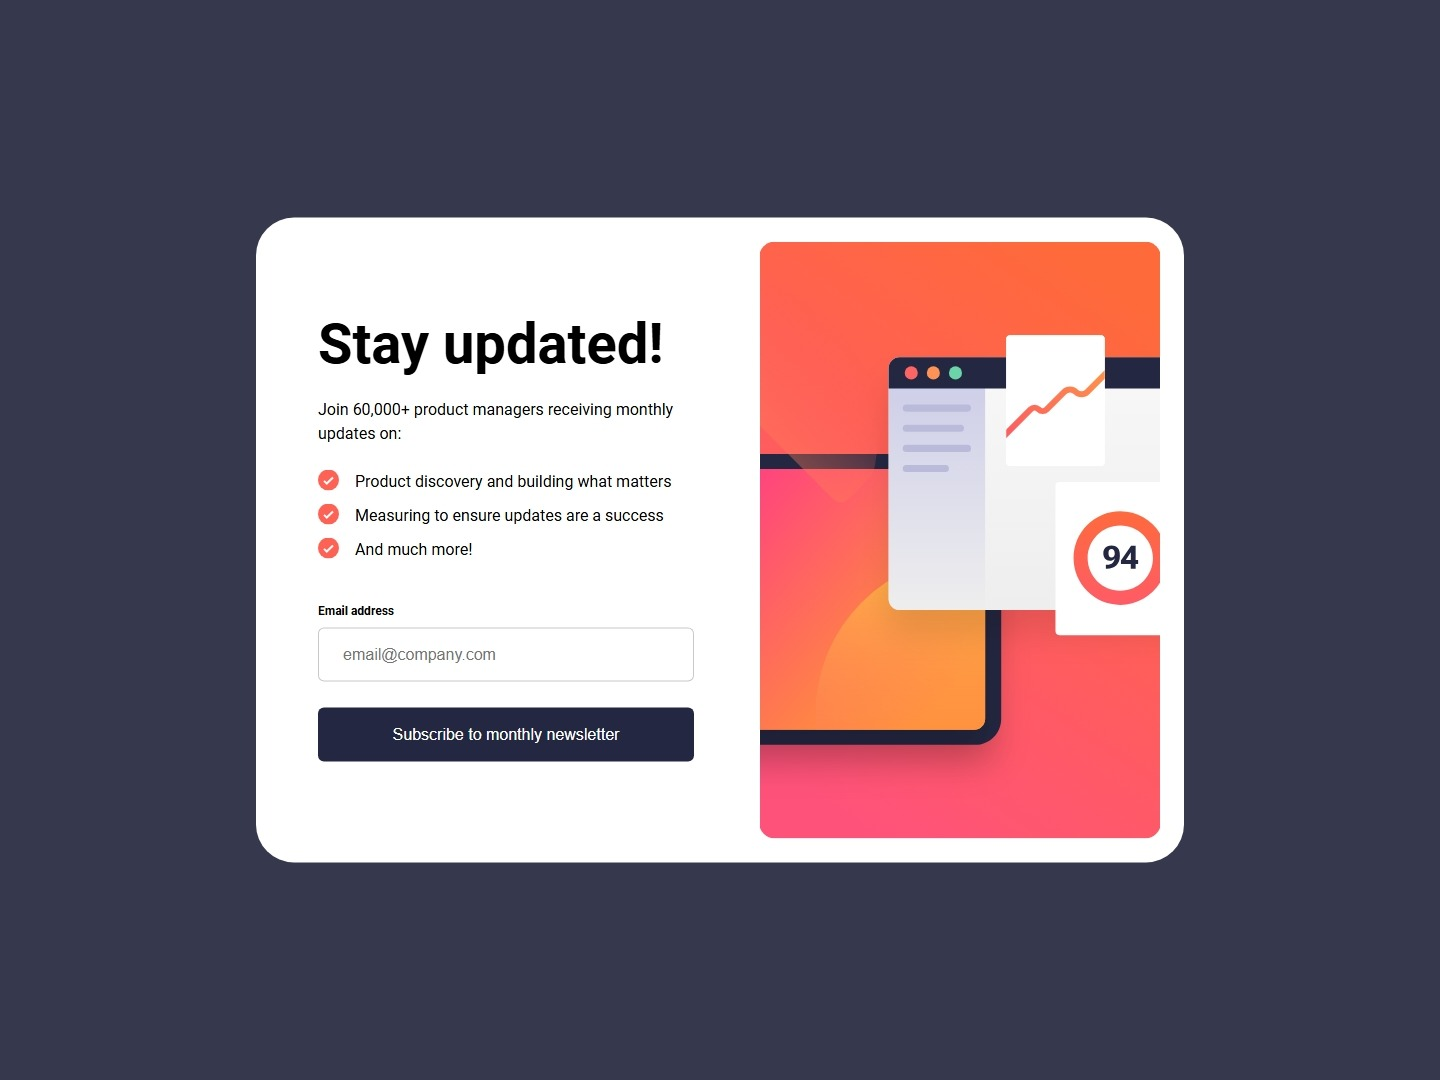
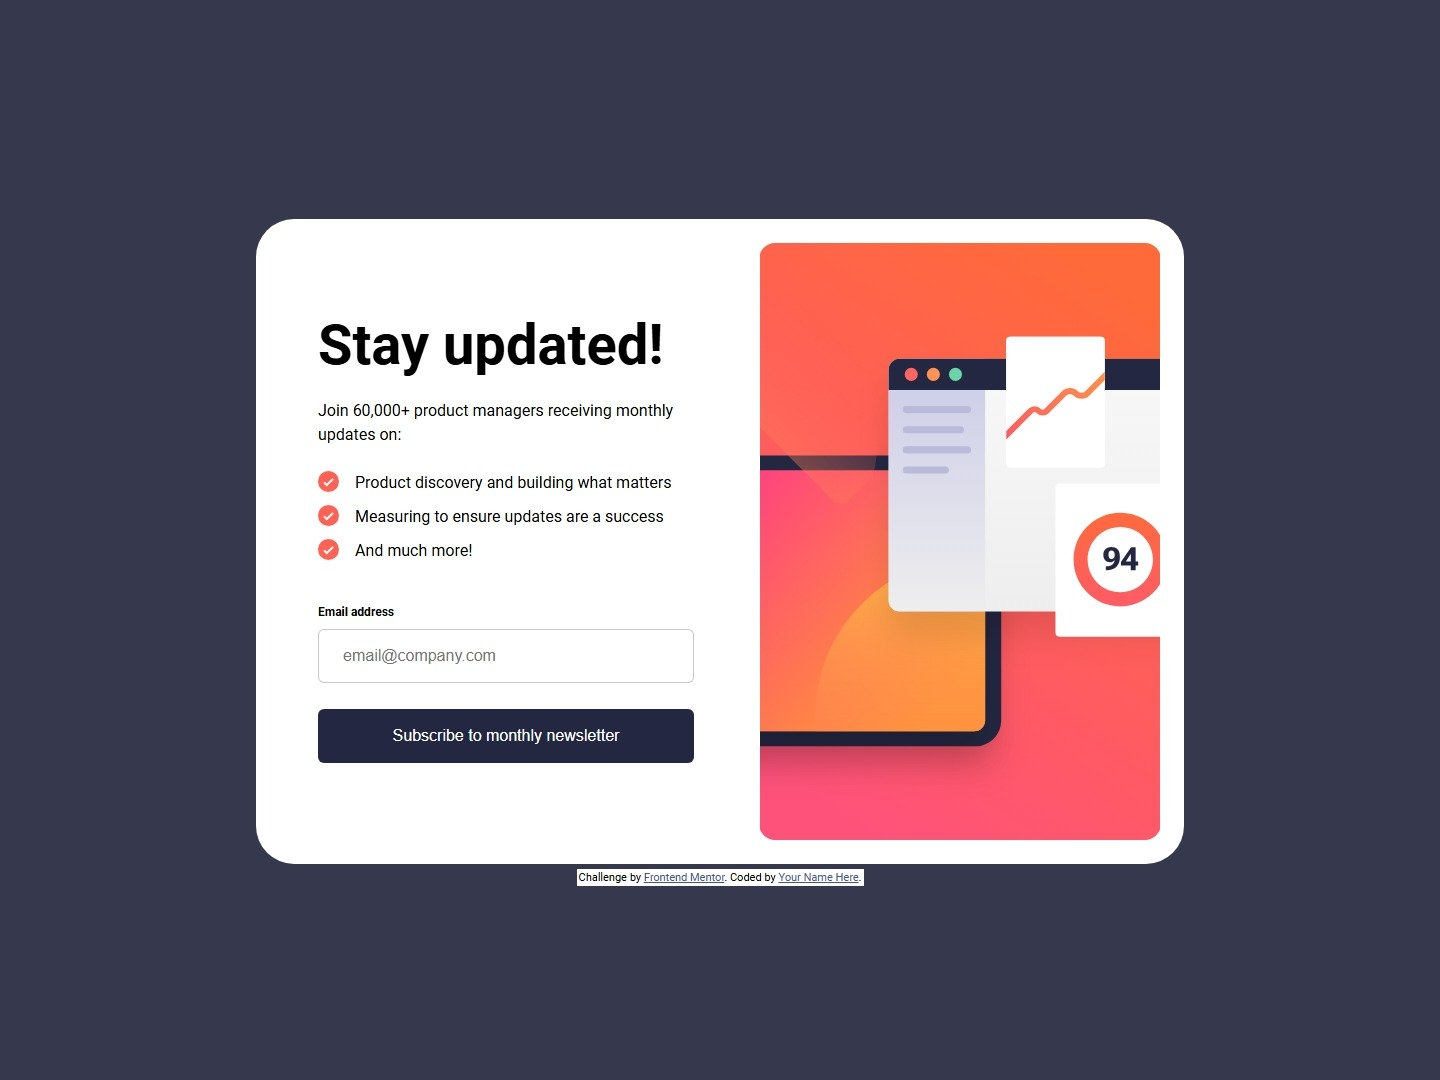
Newsletter sign-up form with success message solution: Fix table layout and desktop layout

diff --git a/Newsletter sign-up form with success message/style.css b/Newsletter sign-up form with success message/style.css
@@ -1,1 +1,1 @@
-@font-face{font-family:"Roboto";src:url("./assets/fonts/Roboto-Regular.ttf") format("truetype");font-weight:normal;font-style:normal}@font-face{font-family:"Roboto";src:url("./assets/fonts/Roboto-Bold.ttf") format("truetype");font-weight:bold;font-style:normal}*,*::before,*::after{padding:0;margin:0;box-sizing:border-box}html,body{height:100%}body{font-family:"Roboto";font-size:16px}#subscribe-form.display-none{display:none}#subscribe-form>picture{display:block}#subscribe-form>picture>img{width:100%}#subscribe-form>main{margin-inline:24px;margin-block:36px 48px}#subscribe-form>main>h1{font-size:40px;margin-bottom:21px}#subscribe-form>main>p{line-height:24px;margin-bottom:24px}#subscribe-form>main>ul{list-style:none;margin-bottom:42px}#subscribe-form>main>ul>li{position:relative;line-height:24px;padding-left:37px;margin-bottom:10px}#subscribe-form>main>ul>li::before{content:"";position:absolute;left:0;top:0;width:21px;aspect-ratio:1/1;background:url("./assets/images/icon-list.svg") no-repeat center/contain}#subscribe-form>main>#email-wrapper{position:relative}#subscribe-form>main>#email-wrapper>label{font-size:12px;font-weight:700;margin-bottom:10px;display:block}#subscribe-form>main>#email-wrapper>input{display:block;width:100%;height:54px;border-radius:6px;border:1px solid hsla(0,0%,58%,.5);padding-inline:24px;font-size:16px;margin-bottom:26px;color:hsl(0,0%,58%)}#subscribe-form>main>#email-wrapper>span.error{display:none;position:absolute;color:hsl(4,100%,67%);font-size:12px;font-weight:700;right:0;top:0px}#subscribe-form>main>#email-wrapper.error>span.error{display:unset}#subscribe-form>main>#email-wrapper.error>input{border-color:hsl(4,100%,67%);background-color:hsla(4,100%,67%,.14)}#subscribe-form>main>#email-wrapper.error>input::-moz-placeholder{color:hsl(4,100%,67%)}#subscribe-form>main>#email-wrapper.error>input::placeholder{color:hsl(4,100%,67%)}#subscribe-form>main>input[type=submit]{display:block;width:100%;height:54px;border-radius:6px;border-width:0;padding-inline:24px;font-size:16px;background-color:hsl(234,29%,20%);color:#fff;font-weight:500}#subscribe-form>main>input[type=submit]:hover{background-image:linear-gradient(to right, hsl(350, 100%, 67%), hsl(4, 100%, 67%));box-shadow:0px 18px 28px 0px hsla(4,100%,67%,.5)}#subscribe-message{padding:40px 24px;display:flex;flex-direction:column;justify-content:center;height:100vh}#subscribe-message.display-none{display:none}#subscribe-message>img{margin-top:auto;margin-bottom:40px;width:-moz-fit-content;width:fit-content}#subscribe-message>h1{font-size:40px;margin-bottom:24px;line-height:40px}#subscribe-message>p{margin-bottom:152px;line-height:24px}#subscribe-message>button{margin-top:auto;height:56px;background-color:hsl(234,29%,20%);color:#fff;border-radius:8px;border-width:0;font-size:15px;font-weight:600}#subscribe-message>button:hover{background-image:linear-gradient(to right, hsl(350, 100%, 67%), hsl(4, 100%, 67%));box-shadow:0px 18px 28px 0px hsla(4,100%,67%,.5)}@media(min-width: 600px){#subscribe-form>picture{width:calc(100% - 64px);margin-top:32px;margin-inline:auto}#subscribe-form>main{margin-inline:32px}#subscribe-message{padding-inline:32px}}@media(min-width: 900px){body{background-color:hsl(235,18%,26%);min-height:1080px}#subscribe-form{width:-moz-fit-content;width:fit-content;margin-inline:auto;padding:24px;position:relative;border-radius:38px;top:50%;transform:translateY(-50%);display:flex;flex-direction:row-reverse;background-color:#fff}#subscribe-form>picture{margin:0;width:400px}#subscribe-form>picture>img{height:100%;-o-object-fit:cover;object-fit:cover;-o-object-position:center;object-position:center}#subscribe-form>main{width:376px;margin-inline:38px 66px}#subscribe-form>main>h1{margin-top:32px;font-size:56px}#subscribe-form>main>input[type=submit]{font-weight:500}#subscribe-message{background-color:#fff;height:auto;width:504px;border-radius:36px;margin-top:20px;margin-inline:auto;top:-50%;transform:translateY(50%);padding-inline:64px;padding-block:48px 64px}#subscribe-message>img{margin-top:0px}#subscribe-message>h1{font-size:56px;line-height:1em}#subscribe-message>p{margin-bottom:40px}#subscribe-message>button{margin-top:0}}/*# sourceMappingURL=style.css.map */
+@font-face{font-family:"Roboto";src:url("./assets/fonts/Roboto-Regular.ttf") format("truetype");font-weight:normal;font-style:normal}@font-face{font-family:"Roboto";src:url("./assets/fonts/Roboto-Bold.ttf") format("truetype");font-weight:bold;font-style:normal}*,*::before,*::after{padding:0;margin:0;box-sizing:border-box}html,body{height:100%}body{font-family:"Roboto";font-size:16px;background-color:hsl(235,18%,26%)}#subscribe-form{background-color:#fff}#subscribe-form.display-none{display:none}#subscribe-form>picture{display:block}#subscribe-form>picture>img{width:100%}#subscribe-form>main{margin-inline:24px;padding-block:36px 48px}#subscribe-form>main>h1{font-size:40px;margin-bottom:21px}#subscribe-form>main>p{line-height:24px;margin-bottom:24px}#subscribe-form>main>ul{list-style:none;margin-bottom:42px}#subscribe-form>main>ul>li{position:relative;line-height:24px;padding-left:37px;margin-bottom:10px}#subscribe-form>main>ul>li::before{content:"";position:absolute;left:0;top:0;width:21px;aspect-ratio:1/1;background:url("./assets/images/icon-list.svg") no-repeat center/contain}#subscribe-form>main>#email-wrapper{position:relative}#subscribe-form>main>#email-wrapper>label{font-size:12px;font-weight:700;margin-bottom:10px;display:block}#subscribe-form>main>#email-wrapper>input{display:block;width:100%;height:54px;border-radius:6px;border:1px solid hsla(0,0%,58%,.5);padding-inline:24px;font-size:16px;margin-bottom:26px;color:hsl(0,0%,58%)}#subscribe-form>main>#email-wrapper>span.error{display:none;position:absolute;color:hsl(4,100%,67%);font-size:12px;font-weight:700;right:0;top:0px}#subscribe-form>main>#email-wrapper.error>span.error{display:unset}#subscribe-form>main>#email-wrapper.error>input{border-color:hsl(4,100%,67%);background-color:hsla(4,100%,67%,.14)}#subscribe-form>main>#email-wrapper.error>input::-moz-placeholder{color:hsl(4,100%,67%)}#subscribe-form>main>#email-wrapper.error>input::placeholder{color:hsl(4,100%,67%)}#subscribe-form>main>input[type=submit]{display:block;width:100%;height:54px;border-radius:6px;border-width:0;padding-inline:24px;font-size:16px;background-color:hsl(234,29%,20%);color:#fff;font-weight:500}#subscribe-form>main>input[type=submit]:hover{background-image:linear-gradient(to right, hsl(350, 100%, 67%), hsl(4, 100%, 67%));box-shadow:0px 18px 28px 0px hsla(4,100%,67%,.5)}#subscribe-message{background-color:#fff;padding:40px 24px 40px 24px;display:flex;flex-direction:column;justify-content:center;height:100vh}#subscribe-message.display-none{display:none}#subscribe-message>img{margin-top:auto;margin-bottom:40px;width:-moz-fit-content;width:fit-content}#subscribe-message>h1{font-size:40px;margin-bottom:24px;line-height:40px}#subscribe-message>p{margin-bottom:152px;line-height:24px}#subscribe-message>button{margin-top:auto;height:56px;background-color:hsl(234,29%,20%);color:#fff;border-radius:8px;border-width:0;font-size:15px;font-weight:600}#subscribe-message>button:hover{background-image:linear-gradient(to right, hsl(350, 100%, 67%), hsl(4, 100%, 67%));box-shadow:0px 18px 28px 0px hsla(4,100%,67%,.5)}@media(min-width: 600px){body{min-height:900px;display:flex;flex-direction:column;align-items:center;justify-content:center}#subscribe-form{height:-moz-fit-content;height:fit-content;padding:32px;border-radius:32px;max-width:620px;margin-inline:auto;margin-top:32px}#subscribe-form>picture{width:100%}#subscribe-form>main{margin-inline:0px;padding-bottom:0}#subscribe-form>main>h1{font-size:48px}#subscribe-message{margin-block:0px;height:auto;border-radius:36px;width:504px;padding-inline:64px;padding-block:48px 64px;border-radius:32px;margin-inline:auto}#subscribe-message>h1{font-size:48px;line-height:1em}#subscribe-message>p{margin-bottom:40px}#subscribe-message>img,#subscribe-message>button{margin-top:0}}@media(min-width: 900px){body{min-height:1080px}#subscribe-form{max-width:unset;width:-moz-fit-content;width:fit-content;margin-top:24px;margin-inline:auto;padding:24px;position:relative;border-radius:38px;display:flex;flex-direction:row-reverse}#subscribe-form>picture{margin:0;width:400px}#subscribe-form>picture>img{height:100%;-o-object-fit:cover;object-fit:cover;-o-object-position:center;object-position:center}#subscribe-form>main{width:376px;margin-inline:38px 66px}#subscribe-form>main>h1{margin-top:32px;font-size:56px}#subscribe-form>main>input[type=submit]{font-weight:500}#subscribe-message>h1{font-size:56px}}/*# sourceMappingURL=style.css.map */

diff --git a/Newsletter sign-up form with success message/style.scss b/Newsletter sign-up form with success message/style.scss
@@ -43,9 +43,12 @@ body {
 body {
   font-family: $typography-font-family;
   font-size: $typography-font-size;
+  background-color: $color-blue-700;
 }
 
 #subscribe-form {
+  background-color: $color-white;
+
   &.display-none {
     display: none;
   }
@@ -60,7 +63,7 @@ body {
 
   > main {
     margin-inline: 24px;
-    margin-block: 36px 48px;
+    padding-block: 36px 48px;
 
     > h1 {
       font-size: 40px;
@@ -167,7 +170,8 @@ body {
 }
 
 #subscribe-message {
-  padding: 40px 24px;
+  background-color: $color-white;
+  padding: 40px 24px 40px 24px;
   display: flex;
   flex-direction: column;
   justify-content: center;
@@ -215,41 +219,86 @@ body {
 }
 
 @media (min-width: 600px) {
+  body {
+    min-height: 900px;
+    display: flex;
+    flex-direction: column;
+    align-items: center;
+    justify-content: center;
+  }
+
   #subscribe-form {
+    height: fit-content;
+    padding: 32px;
+    border-radius: 32px;
+    max-width: 620px;
+    margin-inline: auto;
+    margin-top: 32px;
+    // margin-bottom: 32px;
+
     > picture {
-      width: calc(100% - 64px);
-      margin-top: 32px;
-      margin-inline: auto;
+      width: 100%;
     }
 
     > main {
-      margin-inline: 32px;
+      margin-inline: 0px;
+      padding-bottom: 0;
+
+      > h1 {
+        font-size: 48px;
+      }
     }
   }
 
   #subscribe-message {
-    padding-inline: 32px;
+    margin-block: 0px;
+
+    height: auto;
+    border-radius: 36px;
+    // top: -50%;
+    // transform: translateY(50%);
+    width: 504px;
+
+    padding-inline: 64px;
+    padding-block: 48px 64px;
+
+    border-radius: 32px;
+    // max-width: 620px;
+    margin-inline: auto;
+
+    > h1 {
+      font-size: 48px;
+      line-height: 1em;
+    }
+
+    > p {
+      margin-bottom: 40px;
+    }
+
+    > img,
+    > button {
+      margin-top: 0;
+    }
   }
 }
 
 @media (min-width: 900px) {
   body {
-    background-color: $color-blue-700;
     min-height: 1080px;
   }
 
   #subscribe-form {
+    max-width: unset;
+
     width: fit-content;
+    margin-top: 24px;
     margin-inline: auto;
     padding: 24px;
     position: relative;
     border-radius: 38px;
 
-    top: 50%;
-    transform: translateY(-50%);
     display: flex;
     flex-direction: row-reverse;
-    background-color: $color-white;
 
     > picture {
       margin: 0;
@@ -279,32 +328,8 @@ body {
   }
 
   #subscribe-message {
-    background-color: $color-white;
-    height: auto;
-    width: 504px;
-    border-radius: 36px;
-    margin-top: 20px;
-    margin-inline: auto;
-    top: -50%;
-    transform: translateY(50%);
-    padding-inline: 64px;
-    padding-block: 48px 64px;
-
-    > img {
-      margin-top: 0px;
-    }
-
     > h1 {
       font-size: 56px;
-      line-height: 1em;
-    }
-
-    > p {
-      margin-bottom: 40px;
-    }
-
-    > button {
-      margin-top: 0;
     }
   }
 }

diff --git a/Newsletter sign-up form with success message/index.html b/Newsletter sign-up form with success message/index.html
@@ -19,6 +19,9 @@
     <!-- Feel free to remove these styles or customise in your own stylesheet 👍 -->
     <style>
       .attribution {
+        margin-top: 5px;
+        padding: 2px;
+        background-color: white;
         font-size: 11px;
         text-align: center;
       }

diff --git a/Newsletter sign-up form with success message/README.md b/Newsletter sign-up form with success message/README.md
@@ -116,7 +116,3 @@ Other screenshots in [solution](./solution/)
 <!-- ## Acknowledgments -->
 
 <!-- This is where you can give a hat tip to anyone who helped you out on this project. Perhaps you worked in a team or got some inspiration from someone else's solution. This is the perfect place to give them some credit. -->
-
-```
-
-```
